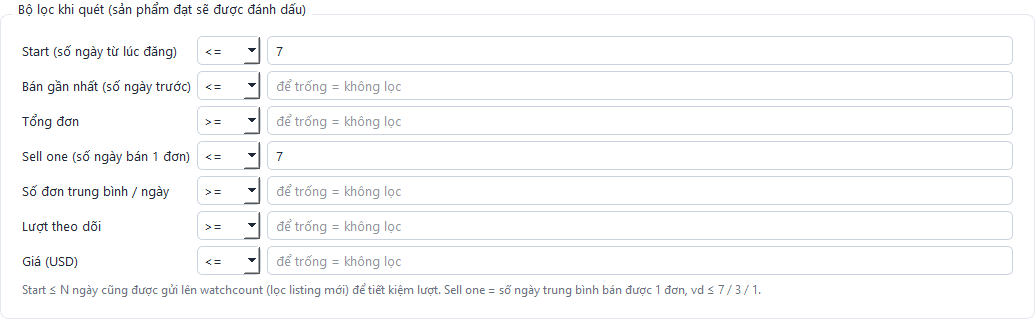
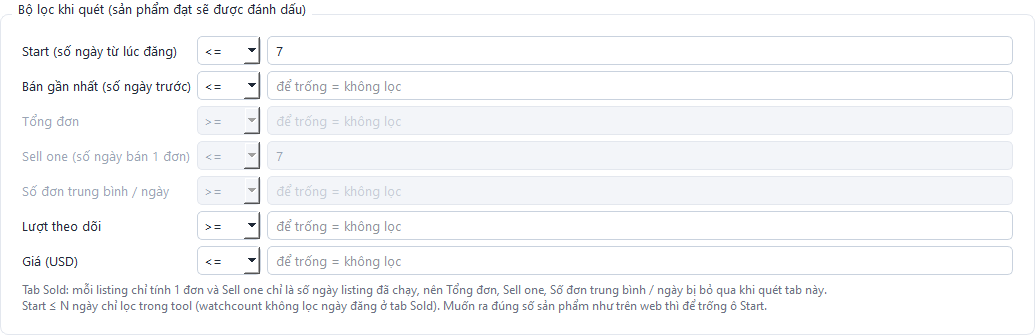
Tab Sold bỏ qua Tổng đơn / Sell one + Log ghi lý do loại (v0.4.1)
Kiểm tra "glass suncatcher" (web hiện 83) và "Eileen Fisher" (283) với Last sold
= 1 ngày: tool tải đủ sản phẩm nhưng chỉ 3-5/20 đạt bộ lọc. Ở tab Sold mỗi listing
đã bán hết nên quantitySold luôn là 1 và sell one chỉ là số ngày listing đã chạy;
watchcount cũng bỏ qua startTimeFrom ở tab này.

- Quét tab Sold: bỏ qua Tổng đơn, Sell one, Số đơn TB/ngày (Log báo điều kiện nào
  bị bỏ qua); không gửi startTimeFrom nữa, Start chỉ lọc trong tool
- Cài đặt: chọn tab Sold thì 3 ô đó bị làm mờ kèm giải thích, giá trị vẫn giữ để
  dùng lại khi chuyển sang tab Live; style cho ô bị vô hiệu hoá
- Log: dưới mỗi trang ghi "bị loại vì: <điều kiện> (N SP)"
- Trang Kết quả: "Lấy bộ lọc đang dùng khi quét" cũng bỏ các điều kiện trên ở tab Sold
- Hướng dẫn + ảnh bộ lọc, docs/watchcount-recon.md; tests: 72 test

diff --git a/app/assets/guide/guide.html b/app/assets/guide/guide.html
@@ -140,17 +140,23 @@ theo ô đó. Mỗi dòng gồm: chỉ số, phép so sánh (&lt;=, &gt;=, &lt;,
 <td>&lt;= 7: bỏ listing đăng quá 7 ngày.</td></tr>
 <tr><td><b>Bán gần nhất</b> (số ngày trước)</td><td>Đơn gần nhất cách đây bao nhiêu ngày (chỉ tab Sold có).</td>
 <td>&lt;= 3: vừa có đơn trong 3 ngày.</td></tr>
-<tr><td><b>Tổng đơn</b></td><td>Tổng số đơn đã bán của listing.</td><td>&gt;= 5</td></tr>
-<tr><td><b>Sell one</b> (số ngày bán 1 đơn)</td><td>Trung bình mấy ngày bán được 1 đơn. Càng nhỏ càng bán chạy.</td>
+<tr><td><b>Tổng đơn</b></td><td>Tổng số đơn đã bán của listing. <i>Chỉ dùng với tab Live.</i></td><td>&gt;= 5</td></tr>
+<tr><td><b>Sell one</b> (số ngày bán 1 đơn)</td><td>Trung bình mấy ngày bán được 1 đơn. Càng nhỏ càng bán chạy.
+<i>Chỉ dùng với tab Live.</i></td>
 <td>&lt;= 7, &lt;= 3 hoặc &lt;= 1</td></tr>
-<tr><td><b>Số đơn trung bình / ngày</b></td><td>Ngược lại với Sell one.</td><td>&gt;= 1</td></tr>
+<tr><td><b>Số đơn trung bình / ngày</b></td><td>Ngược lại với Sell one. <i>Chỉ dùng với tab Live.</i></td><td>&gt;= 1</td></tr>
 <tr><td><b>Lượt theo dõi</b></td><td>Số người đang theo dõi (watch) listing.</td><td>&gt;= 10</td></tr>
 <tr><td><b>Giá (USD)</b></td><td>Giá thấp nhất của listing.</td><td>&lt;= 30</td></tr>
 </table>
 <div class="shot"><img src="settings_filters.png" width="780"></div>
-<p class="cap">Mặc định: đăng trong 7 ngày và trung bình 7 ngày bán được ít nhất 1 đơn.</p>
+<p class="cap">Mặc định: đăng trong 7 ngày và trung bình 7 ngày bán được ít nhất 1 đơn. Ảnh chụp ở tab Sold nên ba ô Tổng đơn, Sell one, Số đơn trung bình / ngày bị làm mờ.</p>
 <table width="100%" cellspacing="0" cellpadding="10" class="tip"><tr><td>
-<b>Mẹo:</b> điều kiện <i>Start &lt;= N</i> còn được gửi thẳng lên watchcount, nên tool chỉ tải listing mới và tốn ít lượt hơn.
+<b>Tab Sold khác tab Live:</b> ở tab Sold, mỗi listing là một sản phẩm đã bán hết nên watchcount luôn ghi <b>1 đơn</b>,
+và Sell one chỉ là số ngày listing đã chạy. Vì vậy khi quét tab Sold, tool <b>bỏ qua</b> ba ô Tổng đơn, Sell one,
+Số đơn trung bình / ngày (các ô này bị làm mờ trong Cài đặt).<br><br>
+Điều kiện <i>Start &lt;= N</i> ở tab Live được gửi thẳng lên watchcount để tiết kiệm lượt. Ở tab Sold watchcount không lọc
+ngày đăng, nên tool tải mọi sản phẩm có đơn rồi mới lọc Start. Ví dụ "glass suncatcher", có đơn trong 1 ngày: web hiện
+khoảng 80 sản phẩm, nhưng chỉ khoảng 1/6 số đó là listing đăng trong 7 ngày. Muốn ra đủ như trên web thì để trống ô Start.
 </td></tr></table>
 
 <!-- ============================================================ -->
@@ -258,6 +264,7 @@ quét trước. Khi gặp lỗi, hãy xem ở đây trước.</p>
 <h3>Quét xong mà không có sản phẩm nào đạt lọc</h3>
 <ul>
 <li>Bỏ tích <b>Chỉ SP đạt bộ lọc khi quét</b> ở trang Kết quả để xem toàn bộ sản phẩm đã lưu.</li>
+<li>Xem trang <b>Log</b>: dưới mỗi trang có dòng <i>bị loại vì: …</i> cho biết điều kiện nào loại bao nhiêu sản phẩm.</li>
 <li>Nới bộ lọc: vd Sell one &lt;= 14, Start &lt;= 30, hoặc để trống bớt ô.</li>
 <li>Tab Sold: tăng <b>Có đơn trong vòng</b> lên 14 hoặc 30 ngày.</li>
 </ul>

diff --git a/tests/test_core.py b/tests/test_core.py
@@ -251,10 +251,11 @@ def test_run_scan_saves_and_marks_kept(tmp_path):
     summary = run_scan(db, _cfg(), ["funny shirt", "cat mug"], "manual", ScanCallbacks(), lambda: fake)
     assert summary.status == "completed"
     assert summary.pages_used == 4
-    assert all("startTimeFrom=7days" in u and "sortBy=bestmatch" in u for u in fake.urls)
+    assert all("sortBy=bestmatch" in u and "startTimeFrom" not in u for u in fake.urls)
     rows = db.query_products(keyword="funny shirt")
     assert {r["item_id"] for r in rows} == {"237065838500", "1", "p1"}
-    assert {r["item_id"] for r in db.query_products(keyword="funny shirt", kept_only=True)} == {"237065838500"}
+    # tab Sold bỏ qua Sell one, chỉ còn Start <= 7 loại item "1"
+    assert {r["item_id"] for r in db.query_products(keyword="funny shirt", kept_only=True)} == {"237065838500", "p1"}
     assert db.list_runs()[0]["status"] == "completed"
 
 
@@ -292,7 +293,7 @@ def test_run_scan_take_all_pages_when_early_stop_disabled(tmp_path):
     fake = FakeClient(pages=50)
     summary = run_scan(Database(tmp_path / "t.db"), cfg, ["a"], "manual", ScanCallbacks(), lambda: fake)
     assert summary.pages_used == 50
-    assert fake.urls[-1].endswith("offset=980&site=EBAY_US&sortBy=bestmatch&startTimeFrom=7days")
+    assert fake.urls[-1].endswith("offset=980&site=EBAY_US&sortBy=bestmatch")
 
 
 def test_run_scan_max_pages_caps_a_long_keyword(tmp_path):
@@ -315,7 +316,42 @@ def test_default_scan_uses_sold_tab(tmp_path):
     fake = FakeClient()
     run_scan(Database(tmp_path / "t.db"), _cfg(), ["cat mug"], "manual", ScanCallbacks(), lambda: fake)
     assert fake.urls[0] == ("https://www.watchcount.com/sold/cat+mug/-/fixedprice"
-                            "?lastSoldDate=7days&site=EBAY_US&sortBy=bestmatch&startTimeFrom=7days")
+                            "?lastSoldDate=7days&site=EBAY_US&sortBy=bestmatch")
+
+
+def test_live_scan_applies_sell_one_and_sends_start_filter(tmp_path):
+    db = Database(tmp_path / "t.db")
+    fake = FakeClient()
+    cfg = _cfg()
+    cfg["search"]["status"] = "live"
+    run_scan(db, cfg, ["funny shirt"], "manual", ScanCallbacks(), lambda: fake)
+    assert all("/live/" in u and "startTimeFrom=7days" in u for u in fake.urls)
+    assert {r["item_id"] for r in db.query_products(kept_only=True)} == {"237065838500"}
+
+
+def test_sold_tab_ignores_sales_metrics():
+    items = config.DEFAULTS["scan_filters"] + [{"field": "total_sold", "op": ">=", "value": 5}]
+    sold = {d["field"]: d["value"] for d in filters.rules_for_status(items, "sold")}
+    assert sold["days_per_sale"] is None and sold["total_sold"] is None and sold["start_age_days"] == 7
+    assert filters.rules_for_status(items, "live") == items
+    assert {d["field"] for d in filters.ignored_for_status(items, "sold")} == {"days_per_sale", "total_sold"}
+    assert filters.ignored_for_status(items, "live") == []
+
+
+def test_rejection_counts_per_rule():
+    fresh = parse_item(RAW)
+    old = parse_item({**RAW, "id": "2", "startTime": iso_days_ago(30), "oneUnitEvery": "1.0 sold/month"})
+    rules = filters.rules_from_config(config.DEFAULTS["scan_filters"])
+    assert filters.rejection_counts([fresh, old], rules) == {
+        "Start (số ngày từ lúc đăng) <= 7": 1, "Sell one (số ngày bán 1 đơn) <= 7": 1}
+
+
+def test_scan_log_explains_rejections(tmp_path):
+    messages = []
+    run_scan(Database(tmp_path / "t.db"), _cfg(), ["a"], "manual", ScanCallbacks(log=messages.append),
+             lambda: FakeClient(pages=1))
+    assert any(m.startswith("Tab Sold: bỏ qua điều kiện Sell one") for m in messages)
+    assert any("bị loại vì: Start (số ngày từ lúc đăng) <= 7 (1 SP)" in m for m in messages)
 
 
 def test_sold_tab_falls_back_to_best_match_for_live_only_sorts():

diff --git a/app/core/filters.py b/app/core/filters.py
@@ -23,6 +23,10 @@ OPERATORS = {
     "=": operator.eq,
 }
 
+# Tab Sold chỉ trả listing đã bán hết: quantitySold luôn là 1 và tốc độ bán watchcount tính bằng 1 / số ngày listing
+# đã chạy, nên các chỉ số này không nói lên listing bán chạy hay không (Sell one <= 7 thành ra chỉ là Start <= 7).
+SOLD_TAB_IGNORED = ("total_sold", "days_per_sale", "sold_per_day")
+
 
 @dataclass
 class FilterRule:
@@ -46,6 +50,9 @@ class FilterRule:
     def active(self) -> bool:
         return self.value is not None
 
+    def describe(self) -> str:
+        return f"{FIELD_LABELS.get(self.field, self.field)} {self.op} {self.value:g}"
+
 
 _AGE_FIELDS = {"start_age_days": "start_time", "last_sold_age_days": "last_sold_at"}
 
@@ -61,20 +68,45 @@ def field_value(product: dict, field: str, now: datetime | None = None) -> float
     return None if value is None else float(value)
 
 
+def passes(product: dict, rule: FilterRule, now: datetime | None = None) -> bool:
+    if not rule.active:
+        return True
+    actual = field_value(product, rule.field, now)
+    # a missing metric (e.g. no sales yet -> no sell-one speed) cannot satisfy an active rule
+    return actual is not None and OPERATORS[rule.op](actual, rule.value)
+
+
 def matches(product: dict, rules: list[FilterRule], now: datetime | None = None) -> bool:
-    for rule in rules:
-        if not rule.active:
-            continue
-        actual = field_value(product, rule.field, now)
-        # a missing metric (e.g. no sales yet -> no sell-one speed) cannot satisfy an active rule
-        if actual is None or not OPERATORS[rule.op](actual, rule.value):
-            return False
-    return True
+    return all(passes(product, rule, now) for rule in rules)
 
 
 def apply(products: list[dict], rules: list[FilterRule], now: datetime | None = None) -> list[dict]:
     return [p for p in products if matches(p, rules, now)]
 
 
+def rejection_counts(products: list[dict], rules: list[FilterRule], now: datetime | None = None) -> dict[str, int]:
+    """Số sản phẩm trượt từng điều kiện (một sản phẩm có thể trượt nhiều điều kiện)."""
+    counts = {}
+    for rule in rules:
+        failed = sum(1 for p in products if not passes(p, rule, now))
+        if failed:
+            counts[rule.describe()] = failed
+    return counts
+
+
 def rules_from_config(items: list[dict]) -> list[FilterRule]:
     return [FilterRule.from_dict(d) for d in items if d.get("field") in FIELD_LABELS]
+
+
+def ignored_for_status(items: list[dict], status: str) -> list[dict]:
+    """Các điều kiện đang bật nhưng bị bỏ qua ở tab này."""
+    if status != "sold":
+        return []
+    return [d for d in items if d.get("field") in SOLD_TAB_IGNORED and d.get("value") not in ("", None)]
+
+
+def rules_for_status(items: list[dict], status: str) -> list[dict]:
+    """Bộ lọc thật sự áp dụng khi quét tab này: tab Sold tắt các chỉ số tổng đơn / tốc độ bán."""
+    if status != "sold":
+        return [dict(d) for d in items]
+    return [{**d, "value": None} if d.get("field") in SOLD_TAB_IGNORED else dict(d) for d in items]

diff --git a/app/ui/pages/settings_page.py b/app/ui/pages/settings_page.py
@@ -3,8 +3,13 @@ from PyQt6.QtWidgets import (QCheckBox, QComboBox, QDoubleSpinBox, QFormLayout, 
                              QPushButton, QScrollArea, QSpinBox, QVBoxLayout, QWidget)
 
 from app.app_version import APP_VERSION
+from app.core import filters
 from app.scraper import watchcount
 from app.ui.widgets.filter_editor import FilterEditor
+
+
+SOLD_FILTER_NOTE = ("Tab Sold: mỗi listing chỉ tính 1 đơn và Sell one chỉ là số ngày listing đã chạy, nên Tổng đơn, "
+                    "Sell one, Số đơn trung bình / ngày bị bỏ qua khi quét tab này.")
 
 
 class SettingsPage(QWidget):
@@ -109,11 +114,10 @@ class SettingsPage(QWidget):
         filter_layout = QVBoxLayout(filter_box)
         self.filter_editor = FilterEditor()
         filter_layout.addWidget(self.filter_editor)
-        hint = QLabel("Start ≤ N ngày cũng được gửi lên watchcount (lọc listing mới) để tiết kiệm lượt. "
-                      "Sell one = số ngày trung bình bán được 1 đơn, vd ≤ 7 / 3 / 1.")
-        hint.setObjectName("hint")
-        hint.setWordWrap(True)
-        filter_layout.addWidget(hint)
+        self.filter_hint = QLabel()
+        self.filter_hint.setObjectName("hint")
+        self.filter_hint.setWordWrap(True)
+        filter_layout.addWidget(self.filter_hint)
         root.addWidget(filter_box)
 
         # general
@@ -149,6 +153,17 @@ class SettingsPage(QWidget):
             self.sort_by.addItem(watchcount.SORT_OPTIONS[key], key)
         self.sort_by.setCurrentIndex(max(0, self.sort_by.findData(watchcount.valid_sort(status, selected or ""))))
         self.last_sold.setEnabled(status == "sold")
+        self._update_filter_hint(status)
+
+    def _update_filter_hint(self, status: str) -> None:
+        if status == "sold":
+            self.filter_editor.set_disabled_fields(filters.SOLD_TAB_IGNORED, SOLD_FILTER_NOTE)
+            self.filter_hint.setText(SOLD_FILTER_NOTE + "\nStart ≤ N ngày chỉ lọc trong tool (watchcount không lọc "
+                                     "ngày đăng ở tab Sold). Muốn ra đúng số sản phẩm như trên web thì để trống ô Start.")
+        else:
+            self.filter_editor.set_disabled_fields(())
+            self.filter_hint.setText("Start ≤ N ngày cũng được gửi lên watchcount (lọc listing mới) để tiết kiệm lượt. "
+                                     "Sell one = số ngày trung bình bán được 1 đơn, vd ≤ 7 / 3 / 1.")
 
     def load_from_config(self) -> None:
         s = self.cfg["search"]

diff --git a/app/ui/widgets/filter_editor.py b/app/ui/widgets/filter_editor.py
@@ -14,8 +14,9 @@ class FilterEditor(QWidget):
         grid = QGridLayout(self)
         grid.setContentsMargins(0, 0, 0, 0)
         grid.setColumnStretch(2, 1)
-        self._rows: dict[str, tuple[QComboBox, QLineEdit]] = {}
+        self._rows: dict[str, tuple[QLabel, QComboBox, QLineEdit]] = {}
         for row, (field, label) in enumerate(FIELD_LABELS.items()):
+            name = QLabel(label)
             op = QComboBox()
             op.addItems(list(OPERATORS))
             op.setFixedWidth(64)
@@ -23,14 +24,22 @@ class FilterEditor(QWidget):
             value.setPlaceholderText("để trống = không lọc")
             op.currentIndexChanged.connect(self.changed)
             value.textChanged.connect(self.changed)
-            grid.addWidget(QLabel(label), row, 0)
+            grid.addWidget(name, row, 0)
             grid.addWidget(op, row, 1)
             grid.addWidget(value, row, 2)
-            self._rows[field] = (op, value)
+            self._rows[field] = (name, op, value)
+
+    def set_disabled_fields(self, fields, reason: str = "") -> None:
+        """Làm mờ các dòng không dùng được; giá trị vẫn giữ để bật lại khi đổi tab."""
+        for field, widgets in self._rows.items():
+            off = field in fields
+            for widget in widgets:
+                widget.setEnabled(not off)
+                widget.setToolTip(reason if off else "")
 
     def set_rules(self, rules: list[dict]) -> None:
         by_field = {r["field"]: r for r in rules}
-        for field, (op, value) in self._rows.items():
+        for field, (_name, op, value) in self._rows.items():
             rule = by_field.get(field, {})
             op.blockSignals(True)
             value.blockSignals(True)
@@ -42,7 +51,7 @@ class FilterEditor(QWidget):
 
     def rule_dicts(self) -> list[dict]:
         result = []
-        for field, (op, value) in self._rows.items():
+        for field, (_name, op, value) in self._rows.items():
             text = value.text().strip().replace(",", ".")
             try:
                 parsed = float(text) if text else None

diff --git a/app/core/scan_job.py b/app/core/scan_job.py
@@ -51,8 +51,9 @@ def run_scan(db: Database, cfg: dict, keywords: list[str], trigger: str,
              cb: ScanCallbacks | None = None, client_factory=None) -> ScanSummary:
     cb = cb or ScanCallbacks()
     search_cfg = cfg["search"]
-    rules = filters.rules_from_config(cfg["scan_filters"])
     status = search_cfg.get("status") or "live"
+    ignored_rules = filters.ignored_for_status(cfg["scan_filters"], status)
+    rules = filters.rules_from_config(filters.rules_for_status(cfg["scan_filters"], status))
     sort_by = watchcount.valid_sort(status, search_cfg["sort_by"])
     last_sold_within = search_cfg.get("last_sold_within") or None
     max_pages = max(1, int(search_cfg["max_pages"]))
@@ -64,6 +65,11 @@ def run_scan(db: Database, cfg: dict, keywords: list[str], trigger: str,
     def say(msg: str) -> None:
         log.info(msg)
         cb.log(msg)
+
+    if ignored_rules:
+        names = ", ".join(filters.FilterRule.from_dict(d).describe() for d in ignored_rules)
+        say(f"Tab Sold: bỏ qua điều kiện {names} (listing ở tab Sold luôn chỉ có 1 đơn, "
+            f"sell one chỉ là số ngày listing đã chạy)")
 
     if not keywords:
         summary.status, summary.error = "failed", "Chưa có từ khoá nào được bật"
@@ -145,6 +151,9 @@ def run_scan(db: Database, cfg: dict, keywords: list[str], trigger: str,
                 kept_ids_all |= kept_ids
                 say(f"   trang {page_no + 1}: {len(products)} sản phẩm ({len(new_ids)} mới), "
                     f"{len(kept_ids)} đạt bộ lọc (tổng kết quả: {result.get('total')})")
+                rejected = filters.rejection_counts(products, rules)
+                if rejected:
+                    say("      bị loại vì: " + "; ".join(f"{name} ({count} SP)" for name, count in rejected.items()))
 
                 empty_streak = 0 if any(p["total_sold"] > 0 for p in products) else empty_streak + 1
                 if not products or result.get("nextOffset") is None:

diff --git a/app/ui/main_window.py b/app/ui/main_window.py
@@ -10,7 +10,7 @@ from PyQt6.QtWidgets import (QApplication, QHBoxLayout, QLabel, QListWidget, QMa
 
 from app import autostart, config, update_service
 from app.app_version import APP_NAME, APP_VERSION
-from app.core import scheduler
+from app.core import filters, scheduler
 from app.db.database import Database
 from app.ui.pages.guide_page import GuidePage
 from app.ui.pages.keywords_page import KeywordsPage
@@ -71,7 +71,8 @@ class MainWindow(QMainWindow):
         layout.addWidget(content, 1)
         self.setCentralWidget(central)
 
-        self.results_page = ResultsPage(db, lambda: copy.deepcopy(self.cfg["scan_filters"]))
+        self.results_page = ResultsPage(db, lambda: filters.rules_for_status(self.cfg["scan_filters"],
+                                                                             self.cfg["search"].get("status")))
         self.keywords_page = KeywordsPage(db)
         self.settings_page = SettingsPage(cfg)
         self.schedule_page = SchedulePage(cfg)

diff --git a/app/ui/style.py b/app/ui/style.py
@@ -24,6 +24,9 @@ QGroupBox::title { subcontrol-origin: margin; left: 12px; padding: 0 4px; font-w
 #hint { color: #6b7280; font-size: 12px; }
 QLineEdit, QComboBox, QSpinBox, QDoubleSpinBox, QDateEdit, QTimeEdit, QPlainTextEdit {
     background: white; border: 1px solid #c9d2de; border-radius: 5px; padding: 4px 6px; }
+QLineEdit:disabled, QComboBox:disabled, QSpinBox:disabled, QDoubleSpinBox:disabled {
+    background: #f3f5f9; color: #9aa5b4; border-color: #e3e7ee; }
+QLabel:disabled { color: #9aa5b4; }
 #productCard { background: white; border: 1px solid #e3e7ee; border-radius: 10px; }
 #productCard:hover { border: 1px solid #2563eb; }
 #cardImage { background: #f3f5f9; border-radius: 6px; color: #9aa5b4; }

diff --git a/app/scraper/watchcount.py b/app/scraper/watchcount.py
@@ -134,7 +134,7 @@ def build_search_url(keyword: str, site: str = "EBAY_US", sort_by: str = "bestma
     status = status if status in STATUS_OPTIONS else "live"
     sort_params, _ = _SORT_PARAMS[valid_sort(status, sort_by)]
     params = {"site": site, **sort_params}
-    if start_within:
+    if status == "live" and start_within:  # tab Sold nhận tham số nhưng không lọc theo nó
         params["startTimeFrom"] = start_within
     if status == "sold" and last_sold_within:
         params["lastSoldDate"] = last_sold_within

diff --git a/app/app_version.py b/app/app_version.py
@@ -1,3 +1,3 @@
 APP_NAME = "Bestseller Crawler"
 APP_ID = "vgp-bestseller-crawler"
-APP_VERSION = "0.4.0"
+APP_VERSION = "0.4.1"

diff --git a/docs/watchcount-recon.md b/docs/watchcount-recon.md
@@ -130,8 +130,14 @@ ms-playwright\chromium_headless_shell-1228\chrome-headless-shell-win64\chrome-he
   (tab Live là `/live/...`). Dữ liệu vẫn ở `window.searchResult`, phân trang `offset`/`nextOffset` như Live.
 - Sắp xếp: chỉ `bestmatch`, `price` + `sortOrder=asc|desc`. Watch Count / Newly Listed / Best Selling chỉ có ở Live.
 - Lọc thêm `lastSoldDate`: `1day`, `2days`, `3days`, `7days`, `14days`, `30days`, `45days`, `60days`.
-  `startTimeFrom` vẫn dùng được.
+- `startTimeFrom` **không có tác dụng** ở tab Sold (kiểm tra 2026-09-30): `searchRequest` vẫn nhận giá trị nhưng
+  total và danh sách item y hệt khi bỏ tham số (vd "glass suncatcher", lastSoldDate=7days: 512 cả hai), vẫn có listing
+  đăng 300+ ngày. Tool chỉ gửi `startTimeFrom` với tab Live, còn tab Sold thì lọc Start trong tool.
 - Mỗi trang tốn 1 lượt **standard** (giống Best Match).
-- Item có thêm `lastSoldDate` (ISO), `lastSoldFor`, `lastSoldForFormatted`; `status` = "Active with Sales".
-  Các trường khác (`quantitySold`, `oneUnitEvery`, `startTime`, `watchCount`...) giống tab Live.
+- Item có thêm `lastSoldDate` (ISO), `lastSoldFor`, `lastSoldForFormatted`, `endTime`.
+- Mỗi item là listing **đã bán hết**: `status` = "Sold", `quantityAvailable` = 0, `quantitySold` luôn = 1 (đo 2026-09-30
+  trên 200 item của "glass suncatcher" và "Eileen Fisher"). `oneUnitEvery` / `quantitySoldRate` = 1 đơn / `timeRunning`,
+  nên Tổng đơn và Sell one không phản ánh độ bán chạy. Tool bỏ qua ba điều kiện Tổng đơn, Sell one, Số đơn TB/ngày
+  khi quét tab Sold.
+- Con số watchcount hiện trên web với Last sold = 1 ngày: "glass suncatcher" 82, "Eileen Fisher" 378 (2026-09-30).
 - Mỗi lần mở trang, reCAPTCHA v3 chạy ngầm (`/recaptcha_verify`); profile đã qua xác minh thì không bị chặn.
